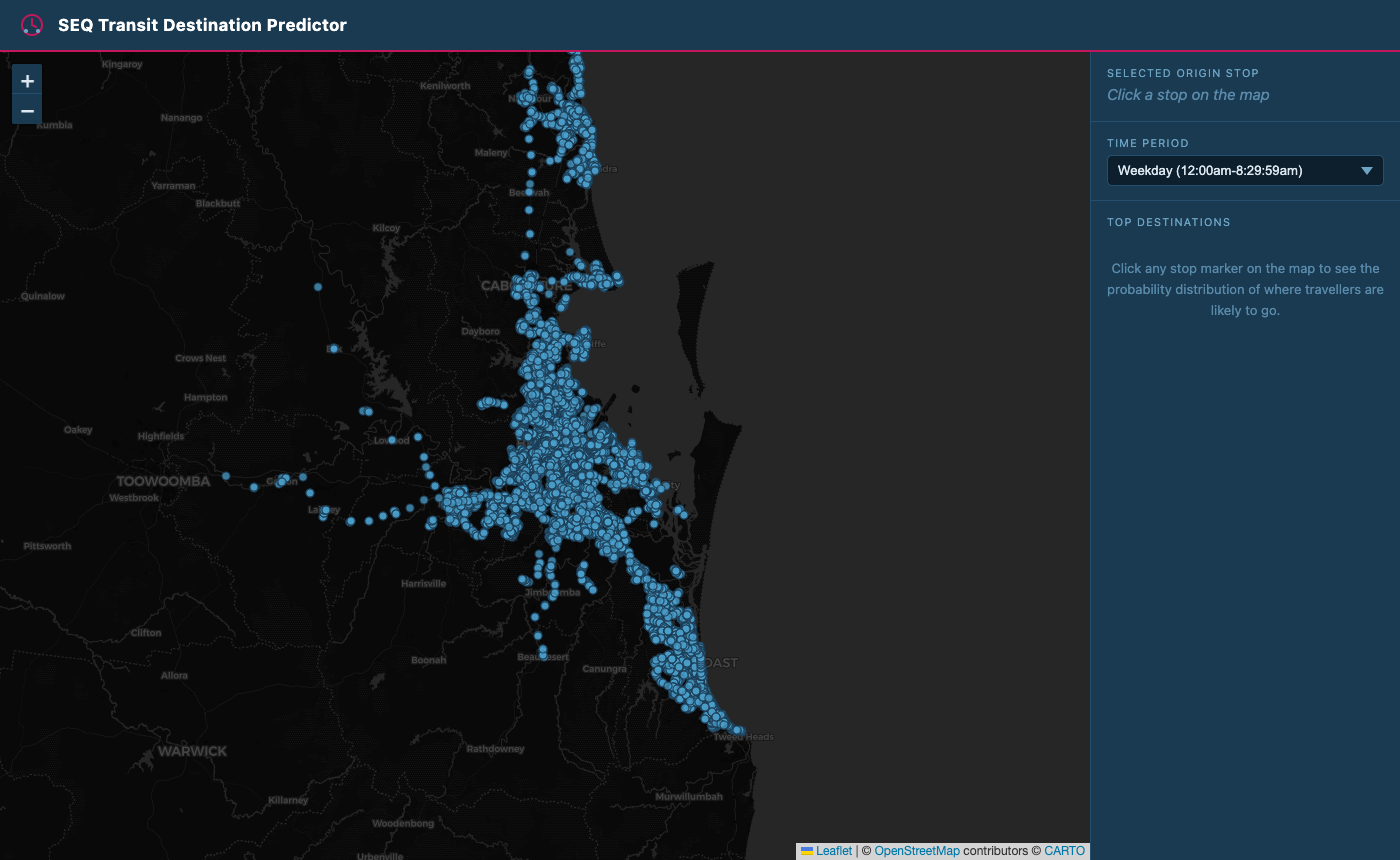
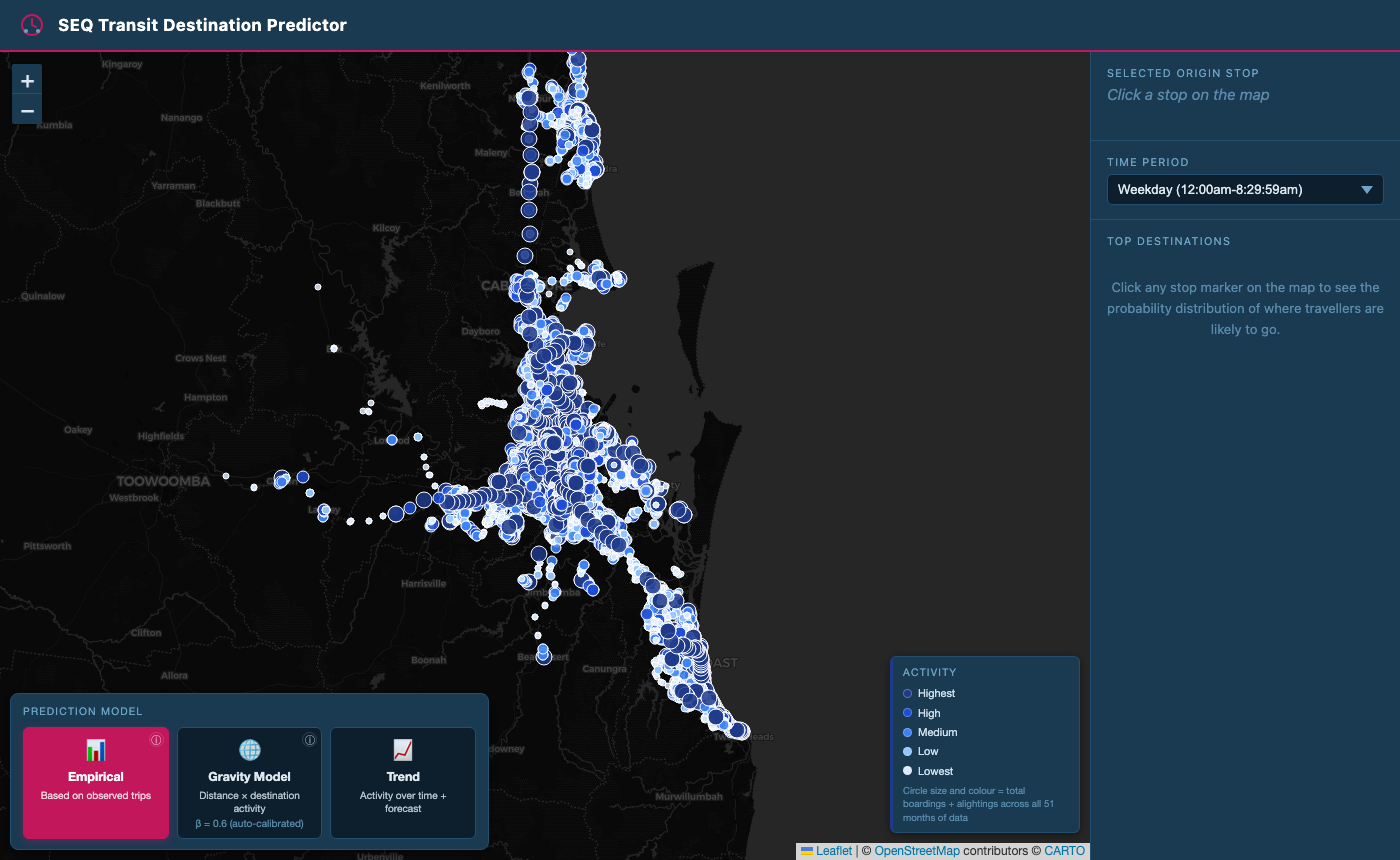
Update README with both versions and new screenshots
- Rewrite README: two-version structure (lite/full), live demo link,
  how-it-works explanation covering all three models, separate getting
  started sections for lite and full, data notes, built-with credits
- Replace screenshots with fresh Playwright-captured set showing the
  new blue activity scale, gravity model heatmap and trend SVG chart:
  overview, blue_scale (Gold Coast), stop_selected, gravity, trend
- Add docs/take_screenshots.py for automated screenshot regeneration

diff --git a/docs/take_screenshots.py b/docs/take_screenshots.py
@@ -1,0 +1,86 @@
+#!/usr/bin/env python3
+"""
+take_screenshots.py — Automated screenshot capture for the docs.
+
+Requires the app server running on localhost:8000:
+    uvicorn app.main:app --port 8000
+
+Usage:
+    python3 docs/take_screenshots.py
+"""
+import asyncio
+from pathlib import Path
+
+from playwright.async_api import async_playwright
+
+BASE_URL = "http://localhost:8000"
+OUT_DIR  = Path(__file__).parent / "screenshots"
+OUT_DIR.mkdir(exist_ok=True)
+
+VIEWPORT = {"width": 1400, "height": 860}
+
+
+async def wait_heatmap(page, timeout_ms: int = 5000):
+    """Wait until destination data appears in the sidebar (means fetch completed)."""
+    try:
+        await page.wait_for_selector(".dest-item", state="attached", timeout=timeout_ms)
+    except Exception:
+        pass
+    await asyncio.sleep(0.8)  # extra pause for canvas render
+
+
+async def take_screenshots():
+    async with async_playwright() as p:
+        browser = await p.chromium.launch(headless=True)
+        page    = await browser.new_page(viewport=VIEWPORT)
+
+        print(f"Opening {BASE_URL} …")
+        await page.goto(BASE_URL, wait_until="networkidle")
+
+        # Wait for the loading spinner to disappear (server may take ~30s)
+        await page.wait_for_selector("#loading", state="hidden", timeout=120_000)
+        await asyncio.sleep(1.2)
+
+        # ── 1. Overview — full SEQ map, blue scale visible ─────────
+        await page.screenshot(path=str(OUT_DIR / "screenshot_overview.png"))
+        print("  ✓ screenshot_overview.png")
+
+        # ── 2. Blue scale — Gold Coast zoomed in ───────────────────
+        await page.evaluate("() => window._seqMap.setView([-28.00, 153.42], 12)")
+        await asyncio.sleep(1.8)
+        await page.screenshot(path=str(OUT_DIR / "screenshot_blue_scale.png"))
+        print("  ✓ screenshot_blue_scale.png")
+
+        # ── 3. Stop selected — Central Station + heatmap ───────────
+        await page.evaluate("() => window._seqMap.setView([-27.48, 153.03], 13)")
+        await asyncio.sleep(0.8)
+        await page.evaluate("""() => {
+            window._seqMap.eachLayer(function(layer) {
+                if (layer.stopData && layer.stopData.stop_id === '600018') {
+                    layer.fire('click');
+                }
+            });
+        }""")
+        await wait_heatmap(page, timeout_ms=6000)
+        await page.screenshot(path=str(OUT_DIR / "screenshot_stop_selected.png"))
+        print("  ✓ screenshot_stop_selected.png")
+
+        # ── 4. Gravity model — same stop ───────────────────────────
+        await page.evaluate("() => setModel('gravity')")
+        await wait_heatmap(page, timeout_ms=6000)
+        await page.screenshot(path=str(OUT_DIR / "screenshot_gravity.png"))
+        print("  ✓ screenshot_gravity.png")
+
+        # ── 5. Trend model — Central Station activity over time ────
+        await page.evaluate("() => setModel('trend')")
+        await asyncio.sleep(1.8)
+        await page.screenshot(path=str(OUT_DIR / "screenshot_trend.png"))
+        print("  ✓ screenshot_trend.png")
+
+        await browser.close()
+
+    print(f"\nAll screenshots saved to {OUT_DIR}")
+
+
+if __name__ == "__main__":
+    asyncio.run(take_screenshots())

diff --git a/README.md b/README.md
@@ -1,41 +1,63 @@
 # SEQ Transit Destination Predictor
 
-An interactive web app that shows where public transport passengers are likely to travel in South East Queensland. Pick any stop on the map, choose a time period, and a heatmap appears showing the probability distribution of where travellers from that stop will go — with the top 10 destinations ranked in the sidebar. The predictions are derived from six months of real Translink origin-destination trip data (October 2025 – March 2026).
+An interactive web map that shows where public transport passengers in South East Queensland are likely to travel. Pick any stop on the map, choose a time period, and a heatmap appears showing the probability distribution of where travellers from that stop are headed — with the top 10 destinations ranked in the sidebar. Stops are coloured by activity level using a blue intensity scale derived from 4+ years of real Translink origin-destination trip data.
+
+## Live Demo
+
+**[seq-transit-predictor.onrender.com](https://seq-transit-predictor.onrender.com)**
+
+> Live demo runs on lite mode (6 months of data, Oct 2025 – Mar 2026). Full version with 51 months of data, Trend analysis and auto-calibrated gravity model runs locally.
 
 ## Screenshots
 
-**Full SEQ map on load**
+**Full SEQ map — blue activity scale on load**
 ![Overview](docs/screenshots/screenshot_overview.png)
 
-**Stop selected — heatmap and destination list**
+**Gold Coast — blue colour gradient clearly visible at station level**
+![Blue scale](docs/screenshots/screenshot_blue_scale.png)
+
+**Stop selected — Central Station with heatmap and destination rankings**
 ![Stop selected](docs/screenshots/screenshot_stop_selected.png)
 
-**Sidebar detail — stop name, time period and top destinations**
-![Sidebar detail](docs/screenshots/screenshot_sidebar_detail.png)
+**Gravity Model — same stop, structurally different heatmap pattern**
+![Gravity model](docs/screenshots/screenshot_gravity.png)
 
-## How it works
+**Trend Mode — 51-month activity chart with 3-month linear projection**
+![Trend](docs/screenshots/screenshot_trend.png)
 
-**Data source:** The app uses Translink's Origin-Destination trip dataset, which records every fare transaction as a pair of stops — the touch-on stop (origin) and the touch-off stop (destination). Six monthly CSV files are loaded at startup and aggregated into a single dataset covering over five million trip records.
+## Two Versions
 
-**Prediction logic:** For each origin stop and time period, the app computes the probability that a passenger will travel to each destination stop: `P(dest | origin, time) = trips(origin → dest, time) / total_trips(origin, time)`. These probabilities are precomputed at startup so every click on the map returns an instant response. The heatmap intensity is scaled proportionally to probability, so the most likely destinations glow brightest.
+### Lite version (deployed on Render)
+- **Data:** 6 months (Oct 2025 – Mar 2026)
+- **Models:** Empirical and Gravity
+- **Gravity β:** 2.0 (fixed)
+- **Top destinations per origin:** 10
+- **File size:** ~5 MB precomputed
+- **Memory:** fits within Render free tier (512 MB)
 
-## Getting started
+### Full version (local)
+- **Data:** 51 months (Jan 2022 – Mar 2026), ~1.1 billion trip records
+- **Models:** Empirical, Gravity and Trend
+- **Gravity β:** 0.6 (auto-calibrated via Trip Length Distribution grid search)
+- **Top destinations per origin:** 50
+- **File size:** ~19 MB precomputed
+- **Memory:** requires 1 GB+
+- **Extras:** monthly time-series per stop, linear trend and 3-month forecast, R² confidence score
+
+## How It Works
+
+**Data source:** Translink's Origin-Destination trip dataset records every fare transaction as a pair of stops — the touch-on (origin) and touch-off (destination). Each monthly CSV covers all modes (train, bus, ferry, tram) across the SEQ network. Records are aggregated across months and split by five time periods (early morning, AM peak, midday, PM peak, evening).
+
+**Prediction logic:** Three models are available. The *Empirical* model computes historical transition probabilities directly: `P(dest | origin, period) = trips(origin → dest) / total_trips(origin)`. The *Gravity* model estimates destination likelihood from stop size and straight-line distance using `score(A→B) = activity(B) / distance(A,B)^β`, where β is calibrated by minimising RMSE between the observed and predicted Trip Length Distribution. The *Trend* model fits a linear regression to monthly totals per stop and projects three months ahead, reporting slope, direction and R².
+
+## Getting Started — Full Version
 
 ### 1. Get the data
 
-Download the following files and place them in the `data/` folder:
+Download the following and place them in the `data/` folder:
 
-- **Translink OD trip CSVs** — the monthly Origin-Destination files from [data.qld.gov.au](https://www.data.qld.gov.au). The app expects files matching the pattern `*TL Org-Dest Trips.csv`.
-- **GTFS stops.txt** — from the [Translink GTFS feed](https://www.data.qld.gov.au/dataset/general-transit-feed-specification-gtfs-seq). Rename or save the file as `data/stops.txt`.
-
-Your `data/` folder should look like:
-```
-data/
-├── stops.txt
-├── 202510 (Oct) TL Org-Dest Trips.csv
-├── 202511(Nov) TL Org-Dest Trips.csv
-└── ...
-```
+- **Translink OD trip CSVs** — monthly Origin-Destination files from [data.qld.gov.au](https://www.data.qld.gov.au). Files must match the pattern `*TL Org-Dest Trips.csv`.
+- **GTFS stops.txt** — from the [Translink GTFS feed](https://www.data.qld.gov.au/dataset/general-transit-feed-specification-gtfs-seq). Save as `data/stops.txt`.
 
 ### 2. Install dependencies
 
@@ -43,24 +65,54 @@ data/
 pip install -r requirements.txt
 ```
 
-### 3. Run the app
+### 3. Generate the precomputed file
+
+```bash
+python scripts/preprocess.py   # ensure LITE_MODE = False at the top
+```
+
+This takes ~5 minutes for 51 months of data. The result is saved as `data/precomputed.pkl.gz`.
+
+### 4. Run the app
 
 ```bash
 uvicorn app.main:app --reload
 ```
 
-Then open **http://localhost:8000** in your browser.
+Open **http://localhost:8000** in your browser. The server loads from the precomputed file in a few seconds.
 
-On first startup the backend loads and processes all CSV files — this takes around 30 seconds for six months of data. A loading spinner is shown in the browser while it completes.
+## Getting Started — Lite Version
 
-## Data notes
+Only the last 6 months of CSVs are needed.
 
-The OD dataset records complete trip segments, not individual stops. Each record represents a single boarding event: the passenger touches on at the origin stop and touches off at the destination stop. Journeys involving transfers appear as separate records — one per vehicle boarded. The app models each segment independently, so the predictions reflect the most common next touch-off from any given stop.
+```bash
+# In scripts/preprocess.py, set LITE_MODE = True (it already defaults to True)
+python scripts/preprocess.py
+uvicorn app.main:app --reload
+```
 
-Stops that appear in the trip data but are absent from `stops.txt` are silently skipped and will not appear on the map.
+Or download the precomputed lite file directly from the [GitHub Release](https://github.com/DavidMume/seq-transit-predictor/releases/tag/v1-data):
 
-## Built with
+```
+data/precomputed_lite.pkl.gz
+```
 
-- **Python** · FastAPI · pandas
+Then run with `LITE_MODE=true`:
+
+```bash
+LITE_MODE=true uvicorn app.main:app --reload
+```
+
+## Data Notes
+
+The OD dataset records complete trip segments, not individual stops. Each record represents a single boarding: the passenger touches on at the origin and touches off at the destination. Journeys involving transfers appear as separate records — one per vehicle boarded. The app models each segment independently, so predictions reflect the most common next touch-off from any given stop, not the final destination of the journey.
+
+Stops appearing in trip data but absent from `stops.txt` are silently skipped. A minimum trip threshold of 50 total trips is applied in lite mode to filter rarely-used stops from the map.
+
+## Built With
+
+- **Python** · FastAPI · pandas · numpy
 - **JavaScript** · Leaflet.js · leaflet-heat
 - **Data** · Translink Open Data (Queensland Government)
+- **Gravity model** · Wilson (1967) spatial interaction framework
+- **Deployment** · Render.com (lite), local (full)